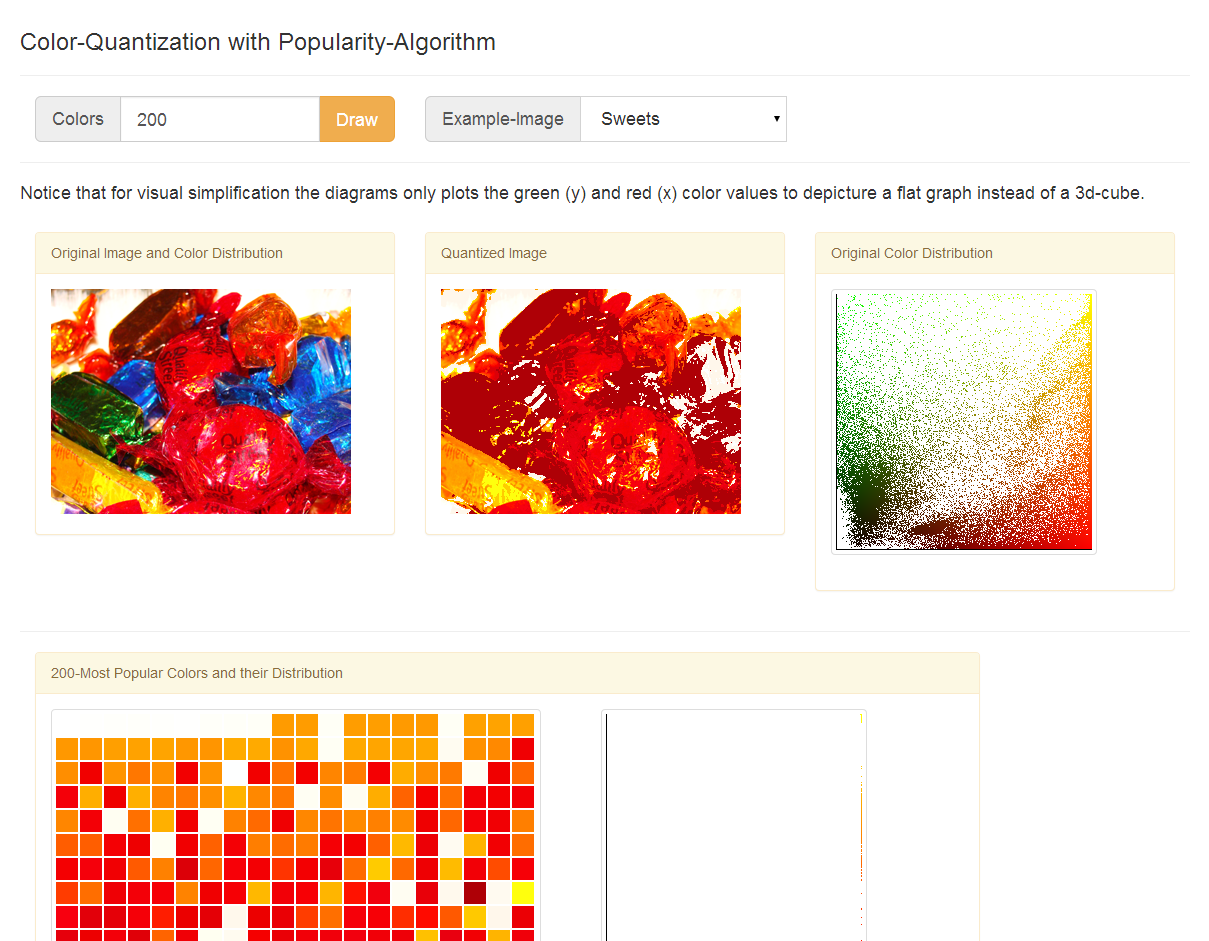
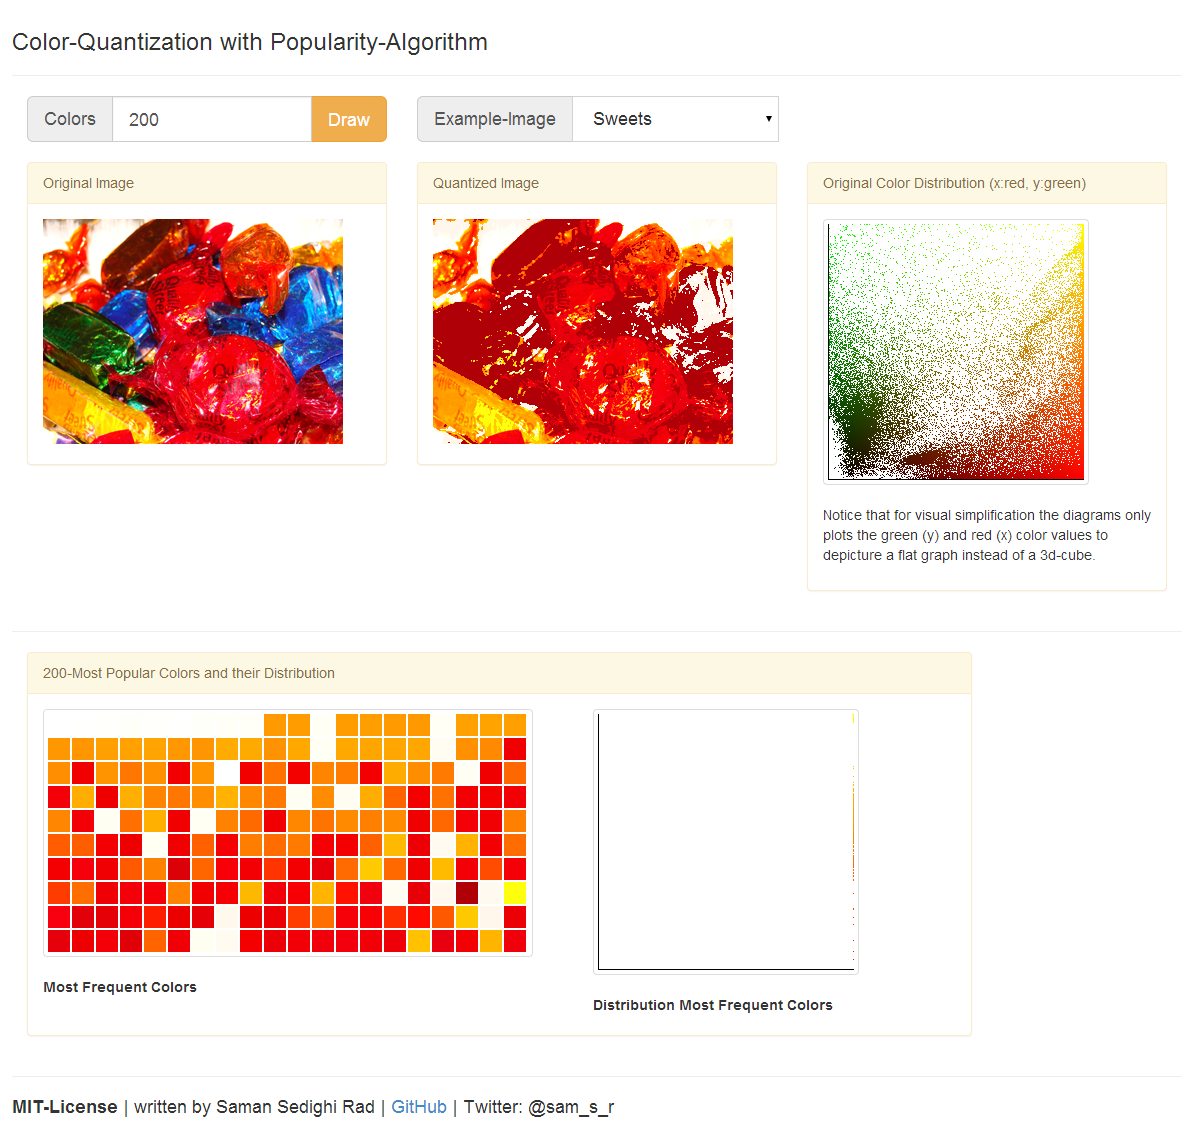
Screen update.

diff --git a/index.html b/index.html
@@ -53,16 +53,13 @@
     </div>
 
     <div class="row">
-        <hr/>
-        <h4>Notice that for visual simplification the diagrams only plots the green (y) and red (x) color values to
-            depicture a flat graph instead of a 3d-cube.</h4>
         <br/>
     </div>
 
     <div class="row">
         <div class="col-md-4">
             <div class="panel panel-warning">
-                <div class="panel-heading">Original Image and Color Distribution</div>
+                <div class="panel-heading">Original Image</div>
                 <div class="panel-body">
                     <canvas id="c"></canvas>
                 </div>
@@ -80,9 +77,13 @@
 
         <div class="col-md-4">
             <div class="panel panel-warning">
-                <div class="panel-heading">Original Color Distribution</div>
+                <div class="panel-heading">Original Color Distribution (x:red, y:green)</div>
                 <div class="panel-body">
                     <canvas class="thumbnail" id="colorspace" width="256" height="256"></canvas>
+                    <p>
+                        Notice that for visual simplification the diagrams only plots the green (y) and red (x) color values to
+                        depicture a flat graph instead of a 3d-cube.
+                    </p>
                 </div>
             </div>
         </div>
@@ -110,6 +111,11 @@
                 </div>
             </div>
         </div>
+    </div>
+
+    <div class="row">
+        <hr/>
+        <h4><b>MIT-License</b> | written by Saman Sedighi Rad | <a href="https://github.com/srad">GitHub</a> | Twitter: @sam_s_r</h4>
     </div>
 
 </div>
